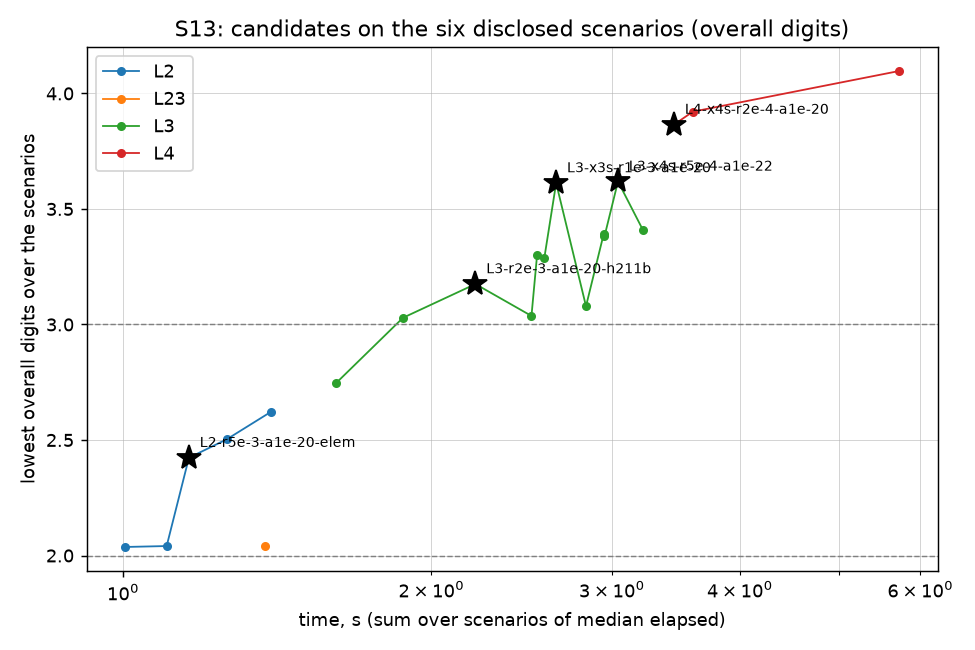
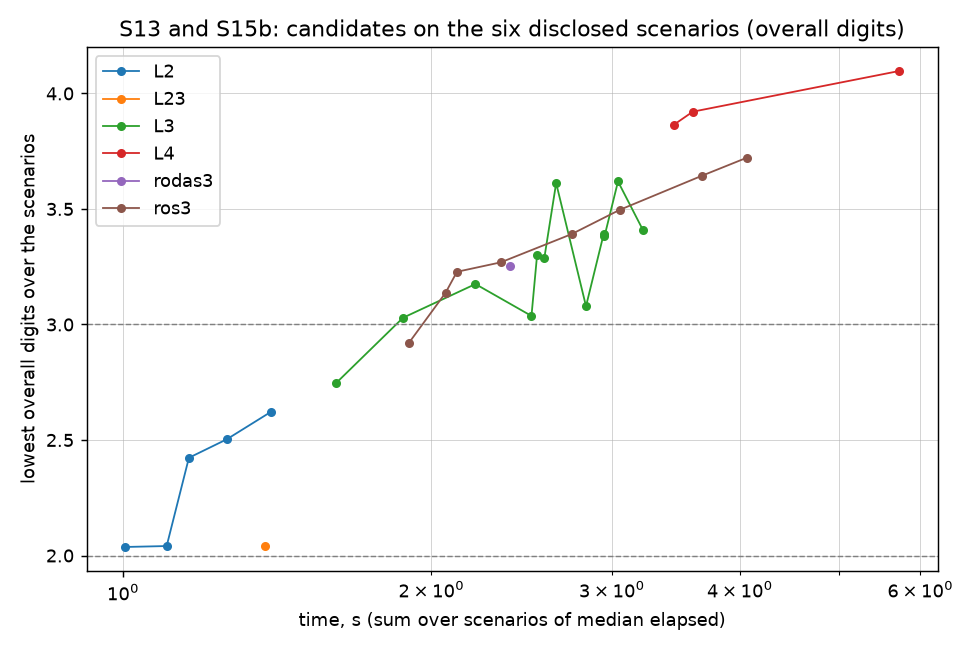
L3r: ROS3 under H211b at 8e-3 / 1e-20 replaces the balanced point as a level-3 point (S15, S15b, S16); the judgment in DECISIONS.md; plots

diff --git a/RESULTS.md b/RESULTS.md
@@ -10,8 +10,9 @@ laptop (10 cores) with Apple clang 21, built with `-O3 -DNDEBUG`. Accuracy
 is `scenarios/score.py`'s: digits overall and for the worst species, with
 the gate (no NaN or infinity, nothing below -1e-20 mol m-3). Times are
 medians of three runs at 10 threads in one session (scan S13, 06:27 to 06:39
-on 2026-10-19, idle machine, AC power; `scans/S13-confirmation.csv`), and
-one run at one thread (S14). The experimenter's ranking times 10,000-cell
+on 2026-10-19, and S15b, 07:54 to 07:59, for L3r; idle machine, AC power;
+`scans/S13-confirmation.csv`, `scans/S15b-ros3-confirmation.csv`), and one
+run at one thread (S14, S16). The experimenter's ranking times 10,000-cell
 scenarios, median of five, in its own session; those numbers are the
 ranking's, not these.
 
@@ -24,7 +25,7 @@ overall (worst species and its digits), median elapsed ms at 10 threads.
 | Point | clean-10min | diurnal-10min | diurnal-30min | diurnal-5min | polluted-10min | tier1-30s | Lowest (worst) | Level | Time, s |
 |---|---|---|---|---|---|---|---|---|---:|
 | L2 | 2.58 (ISOP 1.52) 175 | 2.56 (ISOP 1.39) 205 | 2.52 (ISOP 1.37) 162 | 2.73 (NO 1.87) 281 | 2.42 (ISOP 1.29) 247 | 5.09 (C6H5O2 4.40) 89 | 2.42 (1.29) | 2 | 1.160 |
-| balanced | 3.26 (ISOP 2.26) 365 | 3.25 (ISOP 2.17) 410 | 3.30 (ISOP 2.32) 335 | 3.75 (ISOP 2.89) 488 | 3.17 (ISOP 2.17) 482 | 5.80 (ISOP 5.02) 128 | 3.17 (2.17) | 3 (declared 2) | 2.208 |
+| L3r | 3.56 (ISOP 2.82) 412 | 3.51 (HYDRALD 2.81) 430 | 3.27 (ISOP 2.37) 365 | 3.47 (HYDRALD 2.76) 508 | 3.43 (MVK 2.74) 531 | 5.77 (ISOP 4.95) 92 | 3.27 (2.37) | 3 | 2.337 |
 | L3 | 3.61 (ISOP 2.49) 399 | 3.84 (ISOP 2.58) 449 | 3.65 (ISOP 2.52) 387 | 4.12 (ISOP 3.00) 644 | 3.95 (ISOP 2.85) 550 | 5.87 (ISOPO2 5.32) 217 | 3.61 (2.49) | 3 | 2.647 |
 | recommended | 3.62 (MALO2 2.87) 467 | 3.65 (OClO 2.69) 471 | 4.24 (ISOP 3.10) 372 | 3.87 (BrO 3.00) 830 | 4.52 (ISOP 3.40) 599 | 6.53 (MEKO2 5.86) 303 | 3.62 (2.69) | 3 | 3.041 |
 | accurate | 4.81 (ISOP 3.66) 530 | 4.72 (ISOP 3.49) 556 | 4.57 (ISOP 3.54) 488 | 3.87 (BrO 3.00) 870 | 4.54 (ISOP 3.41) 701 | 6.84 (MEKO2 6.30) 303 | 3.87 (3.00) | 3 | 3.449 |
@@ -36,7 +37,7 @@ rejections, forcing evaluations, Jacobians, factorizations, solves.
 | Point | Steps | Rejected | Forcings | Jacobians | Factorizations | Solves |
 |---|---:|---:|---:|---:|---:|---:|
 | L2 | 2.12 | 0.21 | 6.2 | 2.1 | 2.1 | 8.5 |
-| balanced | 4.16 | 0.35 | 12.1 | 4.2 | 4.2 | 16.6 |
+| L3r | 5.87 | 0.83 | 10.9 | 5.9 | 5.9 | 17.6 |
 | L3 | 2.11 | 0.10 | 14.7 | 2.0 | 6.3 | 19.0 |
 | recommended | 1.62 | 0.06 | 17.7 | 1.6 | 6.5 | 22.6 |
 | accurate | 1.91 | 0.11 | 21.0 | 1.8 | 7.7 | 26.8 |
@@ -73,7 +74,7 @@ between the two settings) or on the interval length.
 | Point | Time, s | Speedup over MICM at level 2 | Speedup over MICM at level 3 |
 |---|---:|---:|---:|
 | L2 | 1.160 | 21.2 | |
-| balanced | 2.208 | 11.1 | 13.1 (if its three digits hold on the undisclosed scenarios) |
+| L3r | 2.337 | | 12.4 |
 | L3 | 2.647 | | 11.0 |
 | recommended | 3.041 | | 9.5 |
 | accurate | 3.449 | | 8.4 |
@@ -83,8 +84,8 @@ one session on the M5; the ranking's numbers (10,000 cells, 11 scenarios,
 its own session) will differ, and MICM's level-2 setting here gives 3.3 to
 3.5 digits on four of the six scenarios where L2 gives 2.4 to 2.7, so the
 comparison is at the level, not at equal digits. At equal digits the
-nearest pairs are balanced (3.17 overall at the lowest, 2.21 s) against
-MICM's level-3 setting (3.29, 29.0 s), 13 times, and accurate (3.87, 3.45 s)
+nearest pairs are L3r (3.27 overall at the lowest, 2.34 s) against MICM's
+level-3 setting (3.29, 29.0 s), 12.4 times, and accurate (3.87, 3.45 s)
 against the same setting, 8.4 times with 0.6 digit more.
 
 ## Work-precision plots
@@ -94,9 +95,10 @@ scenarios against the lowest digits over them, the ranking's view; dashed
 lines at the levels):
 
 - `wp-S13-confirmation-overall.png` and `-worst.png`: the 21 candidates of
-  S13 on the six disclosed scenarios, the five operating points starred.
-  The frontier is RODAS3 with the elementary controller up to 1.3 digits
-  per species, RODAS3 with H211b from 1.9 to 2.2, and extrapolation above.
+  S13 and the nine of S15b on the six disclosed scenarios, the five
+  operating points starred. The frontier is RODAS3 with the elementary
+  controller up to 1.3 digits per species, RODAS3 and ROS3 with H211b from
+  1.9 to 2.4, and extrapolation above.
 - `wp-S12-joint-grid-overall.png` and `-worst.png`: the joint grid of
   tolerances and controller on diurnal-10min and polluted-10min, one curve
   per method, controller, and absolute tolerance. The H211b curves sit
@@ -115,9 +117,10 @@ lines at the levels):
 
 ## Where the time goes
 
-The five points at one thread (S14, one run per scenario,
-`scans/S14-finals-1thread.csv`), the time summed over the six scenarios,
-the speedup at 10 threads from S10's generated runs in the same session,
+The five points at one thread (S14 and, for L3r, S16; one run per scenario,
+`scans/S14-finals-1thread.csv`, `scans/S16-L3r-1thread.csv`), the time
+summed over the six scenarios, the speedup at 10 threads from S10's and
+S16's generated runs in the same session,
 and the kernel cost model's share: the model multiplies the operation
 counts by the per-cell kernel costs measured with `bin/kernel_bench` at
 32-cell groups (forcing 225 ns, Jacobian 438 ns, factorization 676 ns,
@@ -127,7 +130,7 @@ cell and interval.
 | Point | 1 thread, s | 10 threads, s | Speedup | Model / measured, range over the scenarios |
 |---|---:|---:|---:|---|
 | L2 | 5.96 | 1.17 | 5.1 | 0.70 to 0.79 |
-| balanced | 10.96 | 2.24 | 4.9 | 0.75 to 0.78 |
+| L3r | 11.90 | 2.33 | 5.1 | 0.80 to 0.83 |
 | L3 | 12.78 | 2.76 | 4.6 | 0.76 to 0.78 |
 | recommended | 15.02 | 3.12 | 4.8 | 0.74 to 0.78 |
 | accurate | 17.11 | 3.53 | 4.8 | 0.75 to 0.79 |
@@ -146,14 +149,14 @@ cell and interval.
 
 ## Generated against generic kernels
 
-S10 (`scans/S10-generic.csv`): each point once on the six scenarios with
-the generated kernels and with the generic (index-driven) kernels of the
-same library, 10 threads, in one session.
+S10 (`scans/S10-generic.csv`; S16 for L3r): each point once on the six
+scenarios with the generated kernels and with the generic (index-driven)
+kernels of the same library, 10 threads, in one session.
 
 | Point | Generated, s | Generic, s | Ratio |
 |---|---:|---:|---:|
 | L2 | 1.17 | 6.46 | 5.5 |
-| balanced | 2.24 | 12.55 | 5.6 |
+| L3r | 2.33 | 13.37 | 5.7 |
 | L3 | 2.76 | 14.70 | 5.3 |
 | recommended | 3.12 | 18.28 | 5.9 |
 | accurate | 3.53 | 19.53 | 5.5 |

diff --git a/SCANS.md b/SCANS.md
@@ -704,12 +704,12 @@ scenarios, three rounds, beside S13's elementary candidates:
 
 ### The operating points
 
-From S13 and S13b, under ACCURACY.md's margin rule:
+From S13, S13b, and S15b, under ACCURACY.md's margin rule (RODAS3 with H211b at 2e-3 / 1e-20, the "balanced" candidate declared for level 2 before S15, was replaced by L3r, which meets the level-3 margin):
 
 | Point | Method | Declared level | Lowest (worst) over the six | Time, s |
 |---|---|---|---|---:|
 | L2 | RODAS3, elementary controller, 5e-3 / 1e-20 | 2 | 2.42 (ISOP 1.29) | 1.160 |
-| balanced | RODAS3, H211b, 2e-3 / 1e-20 | 2 (reaches 3 on all six with 0.17 of margin) | 3.17 (ISOP 2.17) | 2.208 |
+| L3r | ROS3, H211b, 8e-3 / 1e-20 (S15b) | 3 | 3.27 (ISOP 2.37) | 2.337 |
 | L3 | extrapolation order 3, shifted, 1e-3 / 1e-20 | 3 | 3.61 (ISOP 2.49) | 2.647 |
 | recommended | extrapolation order 4, shifted, 5e-4 / 1e-22 | 3 | 3.62 (OClO 2.69) | 3.041 |
 | accurate | extrapolation order 4, shifted, 2e-4 / 1e-20 | 3 (3.87 overall, 3.00 per species) | 3.87 (BrO 3.00) | 3.449 |
@@ -759,4 +759,38 @@ in 1.02 s at 1e-20; at 1.2e-3: 3.25 (2.33) in 0.96 s and 3.34 (2.52) in 1.15 s.
 - **S15b** confirms ROS3 with H211b on all six scenarios, three rounds, at
   rtol 1e-2 to 3e-3 and atol 1e-18 and 1e-20, beside RODAS3 at 1.2e-3, to
   decide whether a point changes.
+
+### S15b: ROS3 under H211b on all six scenarios (`scans/S15b-ros3-confirmation.csv`)
+
+Three rounds, final conventions; the declared points from S13 for
+comparison. Lowest digits (worst species) over the six, time summed:
+
+| Configuration | Lowest (worst) | Time, s | Level-3 margin (overall / species) | diurnal-30min |
+|---|---|---:|---|---|
+| ROS3, H211b, 1e-2 / 1e-18 | 2.92 (2.09) | 1.90 | below | 2.92 (ISOP 2.09) |
+| ROS3, H211b, 1e-2 / 1e-20 | 3.14 (2.17) | 2.06 | 0.14 / 0.17 | 3.14 (ISOP 2.17) |
+| ROS3, H211b, 8e-3 / 1e-18 | 3.23 (2.15) | 2.12 | 0.23 / 0.15 | 3.23 (ISOP 2.15) |
+| RODAS3, H211b, 2e-3 / 1e-20 (balanced, S13) | 3.17 (2.17) | 2.21 | 0.17 / 0.17 | 3.30 (ISOP 2.32) |
+| **ROS3, H211b, 8e-3 / 1e-20** | 3.27 (2.37) | 2.34 | 0.27 / 0.37 | 3.27 (ISOP 2.37) |
+| RODAS3, H211b, 1.2e-3 / 1e-18 | 3.25 (2.29) | 2.39 | 0.25 / 0.29 | 3.28 (ISOP 2.36) |
+| RODAS3, H211b, 1e-3 / 1e-18 (S13) | 3.29 (2.32) | 2.58 | 0.29 / 0.32 | 3.43 (ISOP 2.33) |
+| extrapolation 3, shifted, 1e-3 / 1e-20 (L3, S13) | 3.61 (2.49) | 2.65 | 0.61 / 0.49 | 3.65 (ISOP 2.52) |
+| ROS3, H211b, 5e-3 / 1e-18 | 3.39 (2.37) | 2.74 | 0.39 / 0.37 | 3.39 (ISOP 2.37) |
+| ROS3, H211b, 5e-3 / 1e-20 | 3.50 (2.40) | 3.05 | 0.50 / 0.40 | 3.50 (ISOP 2.40) |
+| ROS3, H211b, 3e-3 / 1e-18 | 3.64 (2.41) | 3.67 | 0.64 / 0.41 | 3.64 (ISOP 2.41) |
+
+- **On all six scenarios the 30-minute one holds ROS3 back**, as it holds
+  everything: the two-scenario advantage of S15 (3.35 (2.64) at 1e-2) does
+  not survive diurnal-30min (2.92 (2.09)), where ROS3 needs 12 steps per
+  interval. The frontier at level 3 is therefore: ROS3 with H211b at 8e-3 /
+  1e-20 meets the margin rule (0.27 overall, 0.37 for the worst species) at
+  2.34 s, 12 % under the extrapolation point L3 (2.65 s, margins 0.61 and
+  0.49) and 9 % under RODAS3 with H211b at 1e-3 / 1e-18 (2.58 s); the
+  balanced candidate (RODAS3 at 2e-3 / 1e-20, 2.21 s) never met it.
+- **Decision:** ROS3 with H211b at 8e-3 / 1e-20 is declared for level 3 as
+  **L3r** and replaces the balanced point; L3 (extrapolation) stays as the
+  level-3 point with the larger margin and a second method family. S16
+  measured L3r with the generic kernels (5.7 times slower, same steps and
+  digits) and at one thread (11.9 s, 5.1 times at 10 threads, the kernel
+  model 80 to 83 % of the time).
 

diff --git a/OPERATING_POINTS.md b/OPERATING_POINTS.md
@@ -13,13 +13,13 @@ directory.
 | Point | Command | Declared level | Lowest overall / worst species over the six disclosed scenarios | Expected on an undisclosed scenario |
 |---|---|---|---|---|
 | L2 | `bin/ts1_scenario --threads N --method rodas3 --option rtol=5e-3 --option atol=1e-20 --option quantize=1 --option controller=micm --option safety=0.9 SCENARIO` | 2 | 2.42 / isoprene 1.29 (polluted-10min); 2.42 to 2.73 overall and 1.29 to 1.87 per species on the day-night scenarios | 2 digits overall and 1 per species, with 0.3 to spare |
-| balanced | `bin/ts1_scenario --threads N --method rodas3 --option rtol=2e-3 --option atol=1e-20 --option quantize=1 --option controller=h211b --option safety=0.9 SCENARIO` | 2 | 3.17 / isoprene 2.17 (polluted-10min); 3.17 to 3.75 and 2.17 to 2.89 | 3 digits overall and 2 per species on most scenarios, with 0.17 to spare on the disclosed ones; declared for level 2 because that margin is below the 0.2 the rule asks |
+| L3r | `bin/ts1_scenario --threads N --method ros3 --option rtol=8e-3 --option atol=1e-20 --option quantize=1 --option controller=h211b --option safety=0.9 SCENARIO` | 3 | 3.27 / isoprene 2.37 (diurnal-30min); 3.27 to 3.56 and 2.37 to 2.82 | 3 digits overall and 2 per species, with 0.3 to spare |
 | L3 | `bin/ts1_scenario --threads N --method extrap --option order=3 --option sequence=shifted --option rtol=1e-3 --option atol=1e-20 --option quantize=1 --option controller=micm --option safety=0.9 SCENARIO` | 3 | 3.61 / isoprene 2.49 (clean-10min); 3.61 to 4.12 and 2.49 to 3.00 | 3 digits overall and 2 per species, with 0.5 to spare |
 | recommended | `bin/ts1_scenario --threads N --method extrap --option order=4 --option sequence=shifted --option rtol=5e-4 --option atol=1e-22 --option quantize=1 --option controller=micm --option safety=0.9 SCENARIO` | 3 | 3.62 / OClO 2.69 (diurnal-10min); 3.62 to 4.52 and 2.69 to 3.40 | 3 digits overall and 2 per species, with 0.6 to spare; 2.5 per species on most scenarios |
 | accurate | `bin/ts1_scenario --threads N --method extrap --option order=4 --option sequence=shifted --option rtol=2e-4 --option atol=1e-20 --option quantize=1 --option controller=micm --option safety=0.9 SCENARIO` | 3 | 3.87 / BrO 3.00 (diurnal-5min); 3.87 to 4.81 and 3.00 to 3.66 | 3 digits overall and 2 per species with 0.9 to spare; about 4 overall and 3 per species on most scenarios |
 
 Times (sums over the six disclosed scenarios of the median of three runs at
-1,000 cells and 10 threads, S13): L2 1.16 s, balanced 2.21 s, L3 2.65 s,
+1,000 cells and 10 threads, S13 and S15b): L2 1.16 s, L3r 2.34 s, L3 2.65 s,
 recommended 3.04 s, accurate 3.45 s. MICM's three-stage Rosenbrock at the
 tolerances that reach each level on the same scenarios, and the speedups,
 are in RESULTS.md.
@@ -48,7 +48,11 @@ tolerance that gives MICM the same level (9.5 times faster on the six
 disclosed scenarios; RESULTS.md).
 
 For a model that needs only two digits, **L2** is the choice at a third of
-the recommended point's time; **balanced** sits between them and will
-usually deliver three digits. **accurate** is for reference runs: nearly
+the recommended point's time; **L3r**, ROS3 under the H211b controller, is
+the cheapest point with three digits and the rule's margin, 12 % under L3,
+with a different method family as insurance for the ranking at level 3.
+(RODAS3 with H211b at 2e-3 and 1e-20, "balanced" in the scans, reaches three
+digits on the six disclosed scenarios by 0.17 and was replaced by L3r, which
+meets the margin at 6 % more time.) **accurate** is for reference runs: nearly
 four digits everywhere, three per species, at 1.13 times the recommended
 point's time.

diff --git a/DECISIONS.md b/DECISIONS.md
@@ -368,6 +368,14 @@ Tier 1 decisions above stand.
   at 5e-3 / 1e-20 (2.42 and 1.29 in 1.16 s): S13b showed every loose H211b
   setting at safety 1.0 to 1.2 meeting the same 2.04-digit floor on
   diurnal-5min.
+- **S15 and S15b, the questions left open:** ROS3 and ROS4 under H211b had
+  never been scanned. ROS4 is never on the frontier. ROS3 with H211b moves
+  it on the 10-minute scenarios but is held by the 30-minute one, and on all
+  six it gives the cheapest configuration that meets the level-3 margin
+  rule: 8e-3 / 1e-20, 3.27 digits and 2.37 for the worst species in 2.34 s.
+  It is declared as L3r in place of the balanced point (RODAS3 with H211b at
+  2e-3 / 1e-20), which had 0.17 of margin and was declared for level 2 only.
+  The intermediate RODAS3 tolerances fill the curve without moving it.
 - **The order of the remaining scans** followed from the cost picture: the
   fastest configurations take one to five RODAS3 steps per interval, and
   the step count is set by the worst species (isoprene) reaching L - 1
@@ -377,6 +385,40 @@ Tier 1 decisions above stand.
   size and scheduling (S9), clamping (S7), the extrapolation's sequences
   (S8), and the generic kernels (S10); precision (S11) last, if the
   algorithmic levers leave it worth the generator work.
+
+## The judgment
+
+The search is finished: the operating points are the best configurations
+found for the ranking's two levels and for an accurate reference, and the
+levers that remain untried are either measured not to pay here or are
+outside this entry's scope.
+
+- **What was tried:** ten tableaus and extrapolation orders 2 to 8 across
+  tolerances (S2, S8); four controllers with their safeties and exponents
+  (S4, S4b, S4c, S15); three norms (S5); six absolute tolerances (S3, S12);
+  factorization reuse in three forms (S6a); clamping (S7); the first step
+  (S1); grouping and scheduling at both thread counts (S9); generic
+  against generated kernels (S10, S16); 21 candidates confirmed on all six
+  scenarios in three rounds (S13), plus the loose H211b points (S13b) and
+  ROS3 under H211b (S15b): about 620 configurations, 2,300 runs.
+- **What moved the frontier:** the carried quantized step, the H211b
+  controller, the absolute tolerance, and the shifted substep sequence; and,
+  with them, ROS3 at three digits. Nothing else did, and each lever's
+  alternatives were measured, not assumed.
+- **What was not tried, and why:** single-precision kernels (S11), because
+  the algorithmic levers left the kernels at three quarters of the time and
+  the generator work would have been a day for at most 1.3 times on that
+  share, with an accuracy risk at the species near the floor; mechanism
+  reduction and surrogates, excluded by the rules; SDIRK and exponential
+  methods, whose literature (research/R3) puts them behind Rosenbrock at
+  these tolerances for this stiffness, and which the contest's agents that
+  tried SDIRK confirmed slower; W-methods with reused factorizations beyond
+  ROS34PW2, because S6a showed the matrix changes every daytime interval.
+- **What would change the result:** a host model whose photolysis changes
+  more slowly than every interval (reuse becomes a lever); a score that did
+  not count species down to 1e-14 mol m-3 (the absolute tolerance would
+  loosen and RODAS3 at 1e-2 would be the two-digit point, as the contest's
+  winners have it); or a machine where the kernels' share differs.
 
 ## Prototypes
 

diff --git a/ACCURACY.md b/ACCURACY.md
@@ -108,14 +108,14 @@ Two consequences for the design:
 
 ## What the measurements show
 
-The five operating points on the six disclosed scenarios (S13 in SCANS.md;
-1,000 cells; every run passes the gate, and every configuration's output is
-identical across rounds):
+The five operating points on the six disclosed scenarios (S13 and S15b in
+SCANS.md; 1,000 cells; every run passes the gate, and every configuration's
+output is identical across rounds):
 
 | Point | Lowest overall (scenario) | Lowest per species (species, scenario) | Margin to level 2 (overall / species) | Margin to level 3 |
 |---|---|---|---|---|
 | L2 | 2.42 (polluted-10min) | 1.29 (isoprene, polluted-10min) | 0.42 / 0.29 | below |
-| balanced | 3.17 (polluted-10min) | 2.17 (isoprene, polluted-10min) | 1.17 / 1.17 | 0.17 / 0.17 |
+| L3r | 3.27 (diurnal-30min) | 2.37 (isoprene, diurnal-30min) | 1.27 / 1.37 | 0.27 / 0.37 |
 | L3 | 3.61 (clean-10min) | 2.49 (isoprene, clean-10min) | 1.61 / 1.49 | 0.61 / 0.49 |
 | recommended | 3.62 (clean-10min) | 2.69 (OClO, diurnal-10min) | 1.62 / 1.69 | 0.62 / 0.69 |
 | accurate | 3.87 (diurnal-5min) | 3.00 (BrO, diurnal-5min) | 1.87 / 2.00 | 0.87 / 1.00 |
@@ -157,5 +157,7 @@ measured accuracy follows the tolerance as expected: halving the relative
 tolerance adds 0.1 to 0.3 digit, and the safety factor 0.9 is kept for the
 elementary controller (S4). The H211b controller's smoother step sequence
 gives 0.4 to 0.5 more digits for the worst species than the elementary
-controller at the same tolerance (S4b, S12), which is how the balanced
-point reaches three digits at a level-2 cost.
+controller at the same tolerance (S4b, S12); under it ROS3, with two
+forcing evaluations per step against RODAS3's three, reaches three digits
+with the margin at 12 % less time than the extrapolation point (S15, S15b),
+which is the L3r point.

diff --git a/README.md b/README.md
@@ -38,10 +38,11 @@ in SCANS.md and `scans/`; the design and the decisions in DESIGN.md and
 DECISIONS.md; the sources in REFERENCES.md. In short: RODAS3 with the step
 carried from one interval to the next and quantized to the interval is the
 two-digit method (its elementary controller at relative 5e-3, absolute
-1e-20); the same method with the digital-filter controller H211b reaches
-three digits at relative 2e-3; and extrapolated linearly implicit Euler with
-the substep sequence 2, 3, 4, ... is the three-digit and the accurate method
-(orders 3 and 4 at relative 1e-3 to 2e-4, absolute 1e-20 to 1e-22). A tight
+1e-20); ROS3 under the digital-filter controller H211b is the cheapest
+three-digit method (relative 8e-3, absolute 1e-20); and extrapolated
+linearly implicit Euler with the substep sequence 2, 3, 4, ... is the
+three-digit method with the larger margin and the accurate method (orders
+3 and 4 at relative 1e-3 to 2e-4, absolute 1e-20 to 1e-22). A tight
 absolute tolerance matters because the species that set the score sit near
 the 1e-14 mol m-3 floor it counts from.
 
